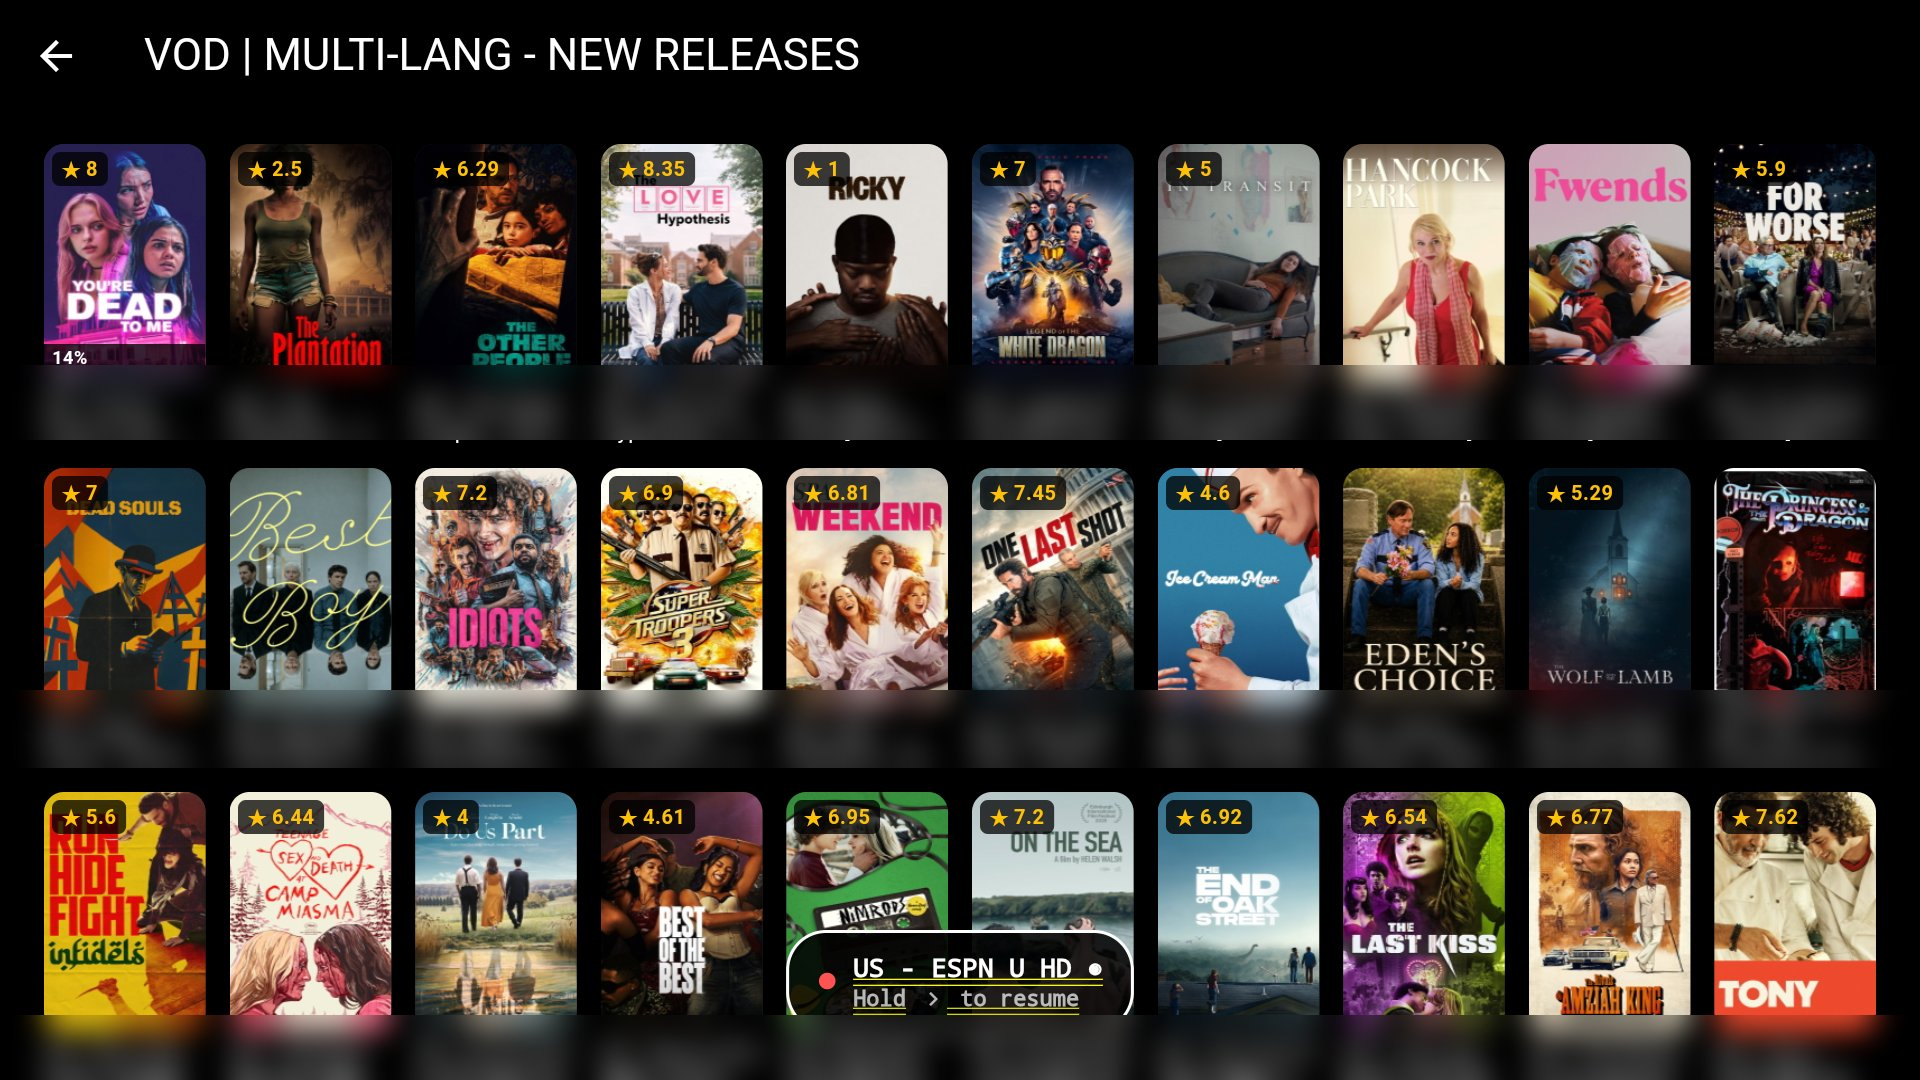
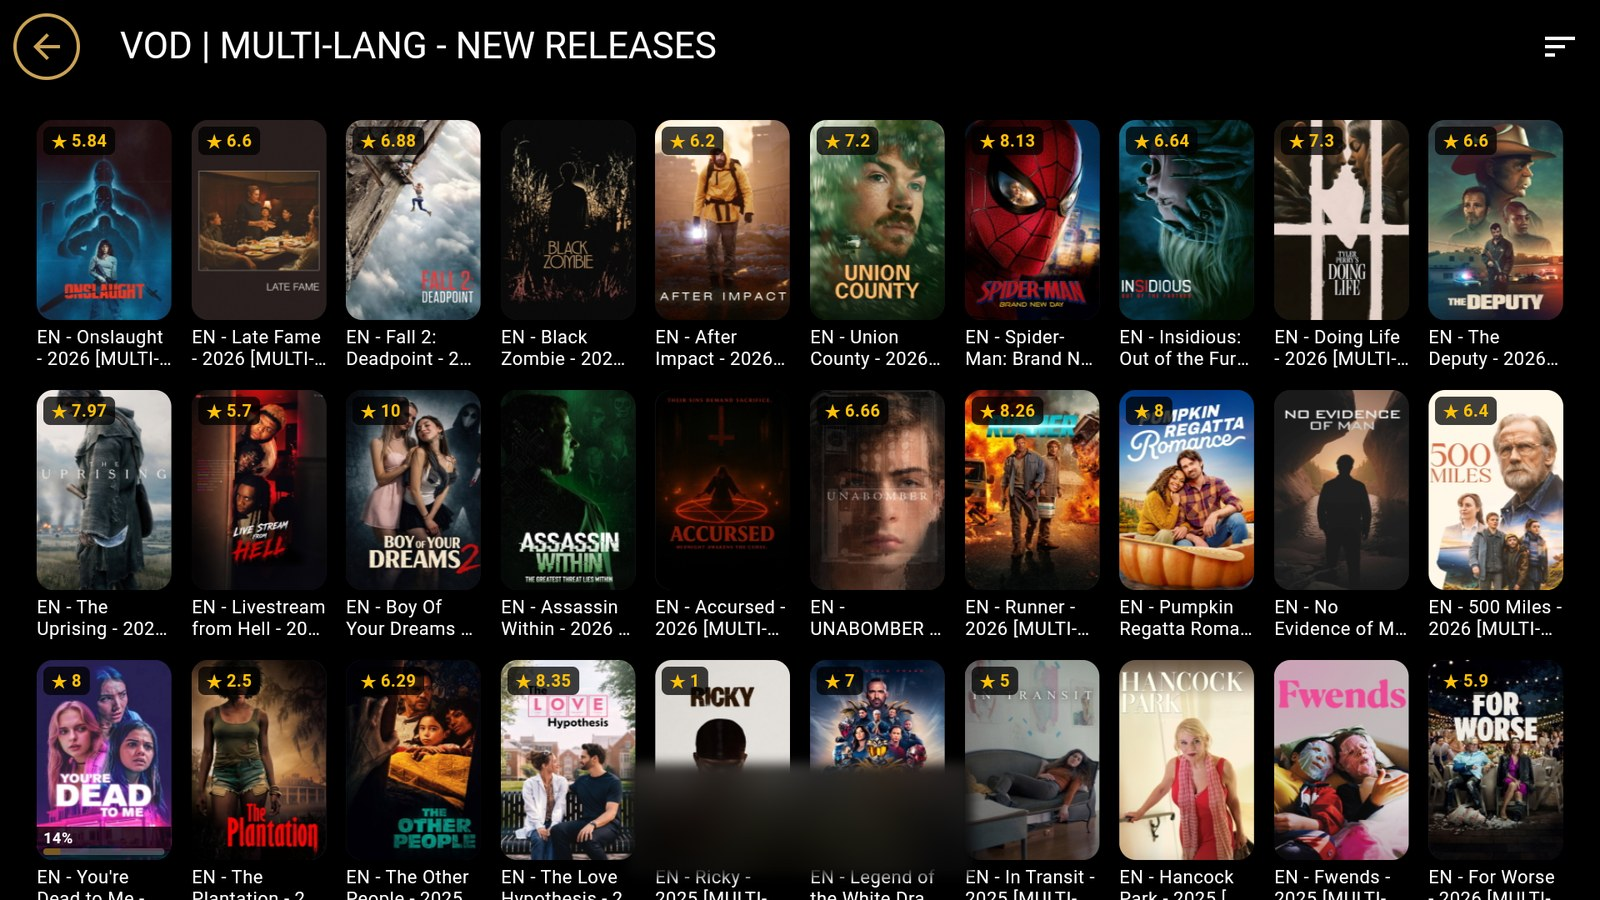
Site + README: fresh gold-theme screenshots of the renamed app
Claude-Session: https://claude.ai/code/session_01RvozrLgGYsAGy2zC7DSYVP

diff --git a/README.md b/README.md
@@ -7,9 +7,20 @@ phones.
 ## Download
 
 Grab the latest APK from the [Releases](../../releases) page —
-`VesperTV-universal.apk` works across phones, Android TV boxes, and
+`app-release.apk` works across phones, Android TV boxes, and
 Firesticks. Install it directly, or side-load it via
 [Downloader](https://amzn.to/2GYuEz9) on Fire TV / Android TV.
+
+## Screenshots
+
+<p align="center">
+  <img src="docs/assets/shot-guide.png" width="49%" alt="Timeline guide">
+  <img src="docs/assets/shot-live.png" width="49%" alt="Live guide with now/next details">
+  <img src="docs/assets/shot-movies.png" width="49%" alt="Movies browse with ratings">
+  <img src="docs/assets/shot-expand-catalog.jpg" width="49%" alt="Expanded movie catalog">
+  <img src="docs/assets/shot-add.png" width="49%" alt="Add Playlist">
+  <img src="docs/assets/shot-group-menu.png" width="49%" alt="Hold Select on a group: expand catalog, favourite, hide">
+</p>
 
 ## Features
 
@@ -20,7 +31,7 @@ Firesticks. Install it directly, or side-load it via
 - Favorites (channels and groups) and group management (hide/show categories)
 - Full remote/D-pad navigation on TV boxes and Firesticks, touch-first layout
   on phones
-- Cyberpunk-styled theming with selectable duo-tone color palettes
+- Theming with selectable palettes, including a black-and-gold "Dark / Gold" look
 
 ## Setup
 
